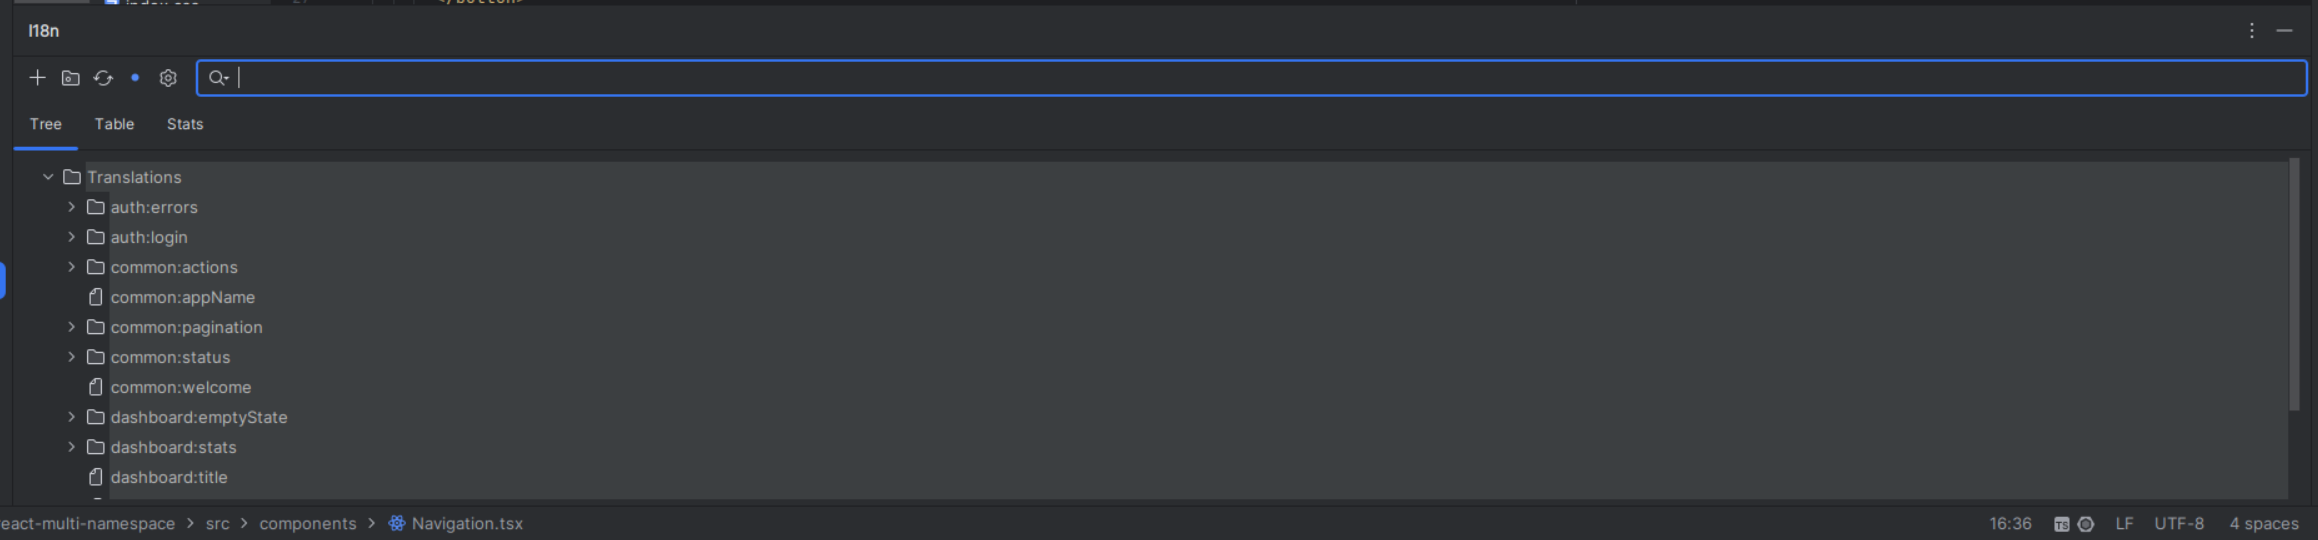
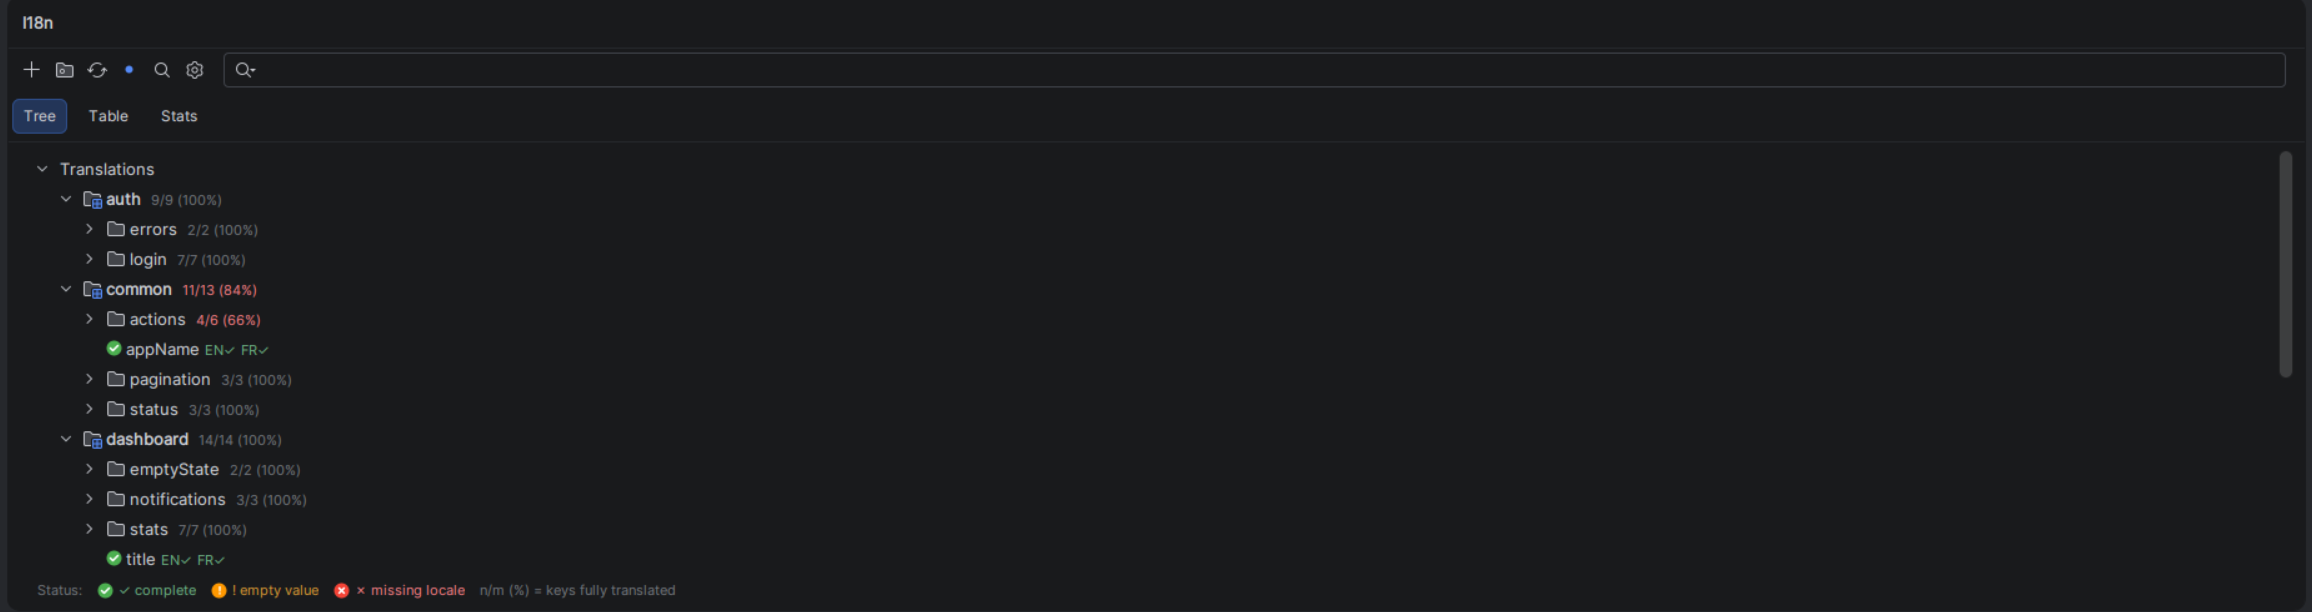
docs(readme): describe the tool window and settings as they are (#272)
* docs(readme): describe the tool window and settings as they are

The Tool Window section described the flat tree, the per-locale Stats
table and a tab layer per module that no longer exist; the Configuration
section listed the settings of the first release, without modules, rules,
the preview locale, exclusions or the per-format settings; and six actions
(CSV export/import, cleanup, batch extract, sort, move) and the five
inspections appeared nowhere. Each section now follows the code. The
screenshot checklist lists which captures the refactoring made stale,
what each must show, and the one to add (the Stats popup).

* docs(readme): retake the tool window and settings screenshots

Twelve captures taken on the example project after the tool window
refactoring (#269-#271): the tree grouped by namespace, the table with
its Namespace column and filter, the Stats matrix and its popup, the
gutter badges and their tooltip, the hover table, and the four pages of
the settings. Two stale table captures nothing referenced are removed.

* docs(readme): show the Create Translation dialog and its Add Namespace step

Two frames of the demo screencast: the dialog with a key checked as
available, the file each locale writes to, and Copy to empty locales;
and the Add Namespace sub-dialog the + button opens.

diff --git a/README.md b/README.md
@@ -25,9 +25,10 @@ whether a key exists, in which namespace, and whether it's translated everywhere
 - **Edit safely** — extract hardcoded strings (`Alt+Enter`), rename across all
   locales and code (`Shift+F6`), move a key to another namespace (`Ctrl+Alt+Shift+M`),
   sort keys alphabetically.
-- **Stay healthy** — tool window with tree/table views, per-locale coverage stats,
-  Keys Synchronizer (propagate missing keys in bulk), Scan Orphans (find unused keys),
-  and empty/duplicate-value inspections.
+- **Stay healthy** — tool window with tree/table views grouped by namespace, coverage
+  stats per namespace and locale, Keys Synchronizer (propagate missing keys in bulk),
+  Scan Orphans (find unused keys), CSV export/import, and inspections for empty,
+  duplicate or inconsistent values.
 
 Works with **i18next, vue-i18n, lingui, react-intl, ngx-translate, svelte-i18n & i18n-js**
 across JS/TS/JSX/TSX, Vue SFC and PHP, with JSON, YAML and PO/POT files.
@@ -89,7 +90,7 @@ namespace.
 
 On first launch, a wizard guides you through configuration in 3 steps:
 
-1. **Framework detection** — auto-detects i18next, vue-i18n, lingui, or react-intl in your project
+1. **Framework detection** — auto-detects i18next, vue-i18n, lingui, react-intl, ngx-translate, svelte-i18n or i18n-js from your `package.json`
 2. **Translation file discovery** — scans for `.json`, `.yaml`, `.po`, and `.pot` files in `locales/`, `i18n/`, `translations/` folders (PO/POT support requires the optional **GNU GetText** plugin — see Plugin Dependencies)
 3. **Summary** — review and apply the configuration
 
@@ -120,6 +121,7 @@ Highlights i18n keys with visual feedback on resolution status:
 
 **Ctrl+Click** on any i18n key navigates directly to the translation value in the JSON/YAML file.
 
+- Opens the **preview locale** (the folding language when none is set) rather than asking which file; when that locale lacks the key, every target is offered
 - Works with partially resolved keys (navigates to the deepest resolved node)
 - Bidirectional: navigate from translation files back to code usage
 
@@ -150,9 +152,10 @@ Line markers in the editor gutter indicate key resolution status at a glance:
 | ⚠ Yellow | Key resolved in **some** locales (partial) |
 | ❌ Red | Key not found in **any** locale |
 
-Clicking a partial/missing badge triggers the quick fix to create the missing key.
+Hovering a badge lists the locales; clicking a partial/missing badge triggers the quick fix to create the missing key.
 
 ![Gutter Icons](docs/img/gutter-icons.png)
+![Gutter Icons tooltip](docs/img/gutter-icons-tooltip.png)
 
 ### Inlay Hints
 
@@ -175,7 +178,31 @@ Replaces i18n keys with their translation values inline for better readability. 
 
 ### Rename Refactoring
 
-Rename i18n keys across all translation files and source code references with **Shift+F6**.
+Rename i18n keys across all translation files and source code references with **Shift+F6** — every call site, whether written with its namespace, under a hook namespace or under a key prefix; plural suffixes (`_one`, `_other`) are kept.
+
+### Bulk Actions
+
+| Action | Where | What it does |
+|--------|-------|--------------|
+| Batch Extract i18n Keys | **Code** menu, `Ctrl+Alt+Shift+B` | Extract several hardcoded strings of a file as keys in one pass |
+| Move i18n Key to Namespace… | editor context menu, `Ctrl+Alt+Shift+M` | Move a key to another namespace, updating every locale file and code reference |
+| Sort i18n Keys Alphabetically | editor context menu, in a translation file | Reorder the file's keys, recursively |
+| Sync Keys | **Tools > i18n Support Plus**, tool window toolbar | Create in every locale the keys it lacks, with a batch dialog to fill the values |
+| Export Translations to CSV… | **Tools > i18n Support Plus** | One row per key, one column per locale |
+| Import Translations from CSV… | **Tools > i18n Support Plus** | Write values back from a CSV, with a preview of what changes before anything is written |
+| Cleanup Unused Keys… | **Tools > i18n Support Plus** | Scan the code for keys never used and delete the selected ones from every locale |
+
+### Inspections
+
+Enabled under **Settings > Editor > Inspections > i18n Support Plus**:
+
+| Inspection | Reports |
+|------------|---------|
+| Empty translation value | A key whose value is blank in a translation file |
+| Duplicate translation value | Two keys of a file holding the same value |
+| Placeholder consistency across locales | A `{name}` or `%s` placeholder present in one locale and not in another, or an unbalanced brace |
+| ICU message format validation | Unbalanced braces, a `plural` block without `one`/`other`, … |
+| Unused translation key | A key of a translation file no code refers to |
 
 ### Wildcard Traversal
 
@@ -193,23 +220,34 @@ Intermediate `*` wildcards in composite key resolution allow matching any segmen
 
 The **I18n** tool window (bottom panel) provides a centralized view of all translations in the project.
 
+The toolbar holds the actions — add a translation, add a namespace, refresh, Sync Keys, Scan Orphans, settings —, a **search field** filtering the tree and the table by key or value (with a result count), and, when several modules are configured, a **module selector**. A project in which nothing can be read shows where the plugin looked and links to the setup wizard and the settings. The window reloads itself when a translation file changes.
+
+**Add translation** opens the same dialog as the quick fix: the key is checked as you type, one field per locale says which file it writes to, **Copy to empty locales** fills the blanks from the reference locale, and the `+` next to the namespace creates a new one on the spot.
+
+![Create Translation](docs/img/toolwindow-create-translation.png)
+![Add Namespace](docs/img/toolwindow-create-namespace.png)
+
 ### Tree View
 
-Hierarchical view of translation keys with color-coded nodes:
-- **Red** — missing keys (not present in all locales)
-- **Orange** — empty values
-- Double-click to edit a translation value
+Keys grouped by **namespace**, then by segment. Every key carries its status three times over — an icon, per-locale badges (`EN✓ FR✗`) and a colour — so it survives a colour-blind reader or a custom theme; a branch shows how many of its keys are fully translated (`12/14 (86%)`), and a namespace row how complete the namespace is.
+
+- **Enter** or double-click edits the key, **F4** opens the translation file at the key, typing jumps to a key
+- Right-click: edit, open file, copy key
+- A permanent legend sits at the bottom
 
 ![Tool Window Tree](docs/img/toolwindow-tree.png)
 
 ### Table View
 
-Flat table with columns: **Key**, one column per locale, and **Usage** count. Features:
-- Namespace filtering via dropdown
-- **Scan Orphans** — identifies unused translation keys (usage count = 0)
-- Right-click on orphan keys to delete them
+Flat table: a **Namespace** column while the rows span several namespaces, the **Key**, one column per locale, and **Usage**. Every cell says what it is — a *Missing* or *Empty* word with an icon, the value otherwise — before being tinted.
+
+- Locale cells are **editable in place**; the value is written straight to the file, and the entry created when the locale lacks it
+- Namespace filter in the dropdown; right-click the header to hide locale columns
+- **Scan Orphans** (toolbar) fills the Usage column; keys reached only through a dynamic key (`` t(`status.${kind}`) ``) are told from unused ones
+- Right-click: edit, open file, delete an unused key
 
 ![Tool Window Table](docs/img/toolwindow-table.png)
+![Tool Window namespace filter](docs/img/toolwindow-table-namespace-filter.png)
 ![Tool Window Orphans](docs/img/toolwindow-table-orphans.png)
 
 ### Keys Synchronizer
@@ -218,60 +256,100 @@ Propagates missing keys across all locales in one click. When a key exists in `e
 
 ![Sync Missing Keys](docs/img/sync-missing-keys.png)
 
-### Stats Panel
+### Stats
 
-Translation coverage statistics per locale: total keys, translated count, missing count, and completion percentage.
+Coverage as a matrix: one row per **namespace** under a **Total** row, one column per **locale**. A cell reads `11/13 [=====    ] 84.6%` — translated keys over the namespace's keys, a bar tinted by tier (≥ 90% complete, ≥ 50% partial, below incomplete), the percentage.
 
-![Stats Panel](docs/img/toolwindow-stats.png)
+Clicking a cell lists that namespace's untranslated keys in that locale — **missing** and **empty** told apart, each next to what it says in the reference locale. **Enter** or a click opens the translation dialog on the key; **F4** opens the reference file.
+
+![Stats](docs/img/toolwindow-stats.png)
+![Stats popup](docs/img/toolwindow-stats-popup.png)
 
 ### Multi-Module Support
 
-When 2+ modules are configured, the tool window displays a tab layer with one tab per module, each with its own Tree/Table/Stats panels.
+A monorepo is described as **modules** in the settings (root directory, path template, key template, framework preset). With two or more, the toolbar's module selector switches the three views from one module to the next; a code file inside a module's root directory resolves its keys against that module's translation files only.
 
 ## Configuration
 
-**File > Tools > i18n Support Plus Configuration**
+**Settings > Tools > i18n Support Plus Configuration**
 
-### General
+![Settings](docs/img/settings.png)
+
+### Namespaces and separators
 
 | Setting | Default | Description |
 |---------|---------|-------------|
-| Search in project only | `true` | Limit translation file search to the project |
 | Namespace separator | `:` | Separates namespace from key (e.g. `common:key`) |
 | Key separator | `.` | Separates nested keys (e.g. `parent.child`) |
 | Plural separator | `-` | Separates plural forms |
-| Default namespace | `translation` | Default namespace(s), separated by `;`, `,` or whitespace |
-| First component as namespace | `false` | Treat first key component as namespace (for Vue) |
-| JS configuration file | *(empty)* | Path to i18next config file for namespace discovery |
-| Translations root | *(empty)* | Custom root directory for translation files |
+| Default namespace | `translation` | Namespace(s) used for keys without a prefix, separated by `;`, `,` or whitespace |
+| First component as namespace | `false` | Treat the first key component as the namespace (vue-i18n) |
+| Treat keys as flat | `false` | Look a key up as a single property, without splitting (react-intl / FormatJS) |
+
+### Where translations are searched
+
+| Setting | Default | Description |
+|---------|---------|-------------|
+| Search in project files only | `true` | Skip libraries and external roots |
+| Translations root directory | *(empty)* | In a monorepo, path from the project root to the translations directory |
+| i18next configuration files | *(empty)* | Files declaring i18next `resources` inline, comma-separated (`src/i18n.ts`) |
+| Excluded directories | *(empty)* | Directory names skipped when scanning for translation files |
+| Excluded file extensions | *(empty)* | Extensions on which annotations are suppressed (`php,vue`) |
+
+### Modules
+
+One entry per application of a monorepo: a **name**, a **root directory**, a **path template** designating its translation files (`locales/{lang}/{ns}.json`, `messages/{lang}.yml`), an optional **file template**, a **key template** saying how its code writes keys (`{ns}:{key}`, `{ns}.{key}`, `{key}`) and a framework **preset**. A diagnostics panel underneath says what each template resolves to.
+
+![Settings — modules](docs/img/settings-modules.png)
+
+### Key assistance rules
+
+Rules make other calls behave like `t`: a **trigger** (`translate`, `i18n.translate`, `__`) turns a function into a translation call, an **exclude** rule takes one out. Each rule can be limited to a language (`js`, `php`) and constrained on the file path, the file's imports or the key — exact, prefix or regular expression, optionally negated.
+
+![Settings — key assistance rules](docs/img/settings-rules.png)
+
+### Folding and preview
+
+![Settings — folding, extraction, gettext, inspections](docs/img/settings-folding.png)
+
+| Setting | Default | Description |
+|---------|---------|-------------|
+| Enable folding | `false` | Show translation values inline in place of the keys |
+| Preferred folding language | `en` | Locale used by folding |
+| Folding max length | `20` | Max characters shown in a folded translation |
+| Preview locale | *(empty)* | Locale shown by inlay hints, first in the hover table and opened by Ctrl+click; the folding language when empty |
+
+### Key extraction
+
+| Setting | Default | Description |
+|---------|---------|-------------|
+| Extract translation sorted by key | `false` | Insert extracted keys in alphabetical order |
+| Sort keys alphabetically | `false` | Keep JSON translation files sorted after every key creation |
+
+### Inspections
+
+| Setting | Default | Description |
+|---------|---------|-------------|
+| Partially translated keys inspection | `false` | Warn when a key exists in some locales but not others |
+
+### PHP / gettext
+
+| Setting | Default | Description |
+|---------|---------|-------------|
+| PHP gettext & plain object files support | `false` | Enable gettext/PO file support |
+| gettext aliases | `gettext,_,__` | Function names recognized as gettext calls |
+
+### Translation file formats
+
+Per-format settings; the first one is the **indentation of the keys generated in YAML files** (2 spaces). JSON follows the IDE's code style.
+
+### Appearance
+
+| Setting | Default | Description |
+|---------|---------|-------------|
 | Show gutter icons | `true` | Display resolution badges in the editor gutter |
-
-### Folding
-
-| Setting | Default | Description |
-|---------|---------|-------------|
-| Folding enabled | `false` | Show translation values inline in the editor |
-| Preferred language | `en` | Language used for inline folding display |
-| Max length | `20` | Max characters shown in folded translation |
-
-### Inspection
-
-| Setting | Default | Description |
-|---------|---------|-------------|
-| Partial translation inspection | `false` | Warn when a key exists in some locales but not others |
-
-### Gettext
-
-| Setting | Default | Description |
-|---------|---------|-------------|
-| Gettext enabled | `false` | Enable gettext/PO file support |
-| Gettext aliases | `gettext,_,__` | Function names recognized as gettext calls |
-
-### Extraction
-
-| Setting | Default | Description |
-|---------|---------|-------------|
-| Extract sorted | `false` | Insert extracted keys in alphabetical order |
+| Show setup wizard on new projects | `true` | Run the wizard the first time an unconfigured project opens |
+| Announce plugin updates | `true` | After an update, a notification linking to the changelog (applies to every project) |
 
 ## Requirements
 

diff --git a/docs/SCREENSHOTS_CHECKLIST.md b/docs/SCREENSHOTS_CHECKLIST.md
@@ -3,52 +3,74 @@
 ## Setup
 
 1. Lancer `./gradlew runIde`
-2. Ouvrir un projet de test avec des fichiers de traduction (ex: `examples/react-multi-namespace/`)
-3. Outil recommande : [ScreenToGif](https://www.screentogif.com/) (screenshots + GIFs)
+2. Ouvrir `examples/react-multi-namespace/` — c'est le projet de référence : cinq namespaces
+   (`auth`, `common`, `dashboard`, `deposit-box`, `navigation`), deux locales (`en`, `fr`),
+   des clés manquantes et vides prêtes à l'emploi
+3. Thème sombre par défaut de l'IDE, fenêtre d'outil ancrée en bas, largeur ≥ 1400 px
+4. Outil recommandé : [ScreenToGif](https://www.screentogif.com/) ou la capture système ;
+   PNG, sans mise à l'échelle, rognée à la zone utile
 
 ---
 
-## Screenshots (`docs/img/`)
+## Captures de la fenêtre d'outil et des réglages — refaites le 2026-09-14
 
-### 2. Annotation — cle resolue
-- **Fichier** : `annotation-resolved.png`
-- **Comment** : Ouvrir un fichier JS/TS avec `t('common:existingKey')`
-- **Contenu** : La cle sans erreur, eventuellement avec l'inlay hint a cote
-- **Statut** : DONE (source : `Screenshot from 2026-03-29 12-44-21.png`)
+Sources : `~/Pictures/Screenshots/Screenshot from 2026-09-14 14-4*.png`, rognées avec ImageMagick
+(`convert -crop`), sans mise à l'échelle.
 
+| Fichier | Contenu | Statut |
+|---|---|---|
+| `toolwindow-tree.png` | groupes de namespace dépliés (`auth`, `common`, `dashboard`), badges `EN✓ FR✓`, légende | DONE |
+| `toolwindow-table.png` | colonne Namespace, clés sans préfixe, deux cellules *Missing* | DONE |
+| `toolwindow-table-namespace-filter.png` | combo *All namespaces* déroulée | DONE |
+| `toolwindow-stats.png` | matrice Namespace × locale, ligne Total, barres vertes/orange | DONE |
+| `toolwindow-stats-popup.png` | popup `common — 'fr': 2 missing, 0 empty — reference: en` sous la cellule | DONE |
+| `gutter-icons.png` | `DepositBox.tsx` avec badges vert / orange / rouge | DONE (refaite) |
+| `gutter-icons-tooltip.png` | tooltip *Partial translation (1/2 locales)* | DONE (refaite) |
+| `hover-hint.png` | table de survol `en` / `fr` avec liens ↗ et crayon | DONE (refaite) |
+| `settings.png` | *Namespaces and separators*, *Where translations are searched* | DONE |
+| `settings-folding.png` | *Folding and preview*, *Key extraction*, *PHP / gettext*, *Inspections* | DONE (nouvelle) |
+| `settings-modules.png` | *Appearance*, *Translation file formats*, *Modules configuration* | DONE (nouvelle) |
+| `settings-rules.png` | *Key assistance rules* | DONE (nouvelle) |
+| `toolwindow-create-translation.png` | dialogue *Create Translation* rempli (clé vérifiée, chemins, *Copy to empty locales*) — frame de `Screencast from 2026-09-14 14-45-40.mp4` à 26 s | DONE (nouvelle) |
+| `toolwindow-create-namespace.png` | sous-dialogue *Add Namespace* ouvert par le `+` — même vidéo à 12 s | DONE (nouvelle) |
 
-### 4. Annotation — fichier manquant
-- **Fichier** : `annotation-missing-file.png`
-- **Comment** : Ecrire `t('unknownNamespace:key')`
-- **Contenu** : Le namespace souligne, indiquant que le fichier n'existe pas
-- **Statut** : DONE (source : `Screenshot from 2026-03-29 12-43-08.png`)
+### Reste à refaire
 
+#### Tool Window — Orphans
+- **Fichier** : `toolwindow-table-orphans.png`
+- **Comment** : onglet **Table**, après **Scan Orphans** (toolbar), clic droit sur une ligne *Unused*
+- **Contenu** : la colonne Usage remplie, le menu contextuel ouvert avec *Delete unused key*
+- **Périmé car** : capture d'avril, sans colonne Namespace ni états *Dynamic*
 
-## Recapitulatif
+### À vérifier
+- `navigation.png` : ne doit plus montrer de popup *Choose Declaration* (depuis #268 le Ctrl+clic
+  ouvre directement la locale de prévisualisation)
+- `sync-missing-keys.png` : refaire seulement si le dialogue a changé d'aspect
 
-| # | Feature | Statut | Fichier(s) |
-|---|---------|--------|------------|
-| 1 | Setup Wizard | DONE | `Setup-wizard-step-{1,2,3}.png` |
-| 2 | Annotation — cle resolue | DONE | `annotation-resolved.png` |
-| 3 | Annotation — segment non resolu | DONE | `annotation-unresolved.png` |
-| 4 | Annotation — fichier manquant | DONE | `annotation-missing-file.png` |
-| 5 | Navigation | DONE | `navigation.png` |
-| 6 | Completion | DONE | `completion.png` |
-| 7 | Extraction | DONE | `extraction.png`, `extraction-intent.png`, `extraction-add-namespace.png`, `extraction-translation-value.png` |
-| 8 | Gutter Icons | DONE | `gutter-icons.png` |
-| 9 | Inlay Hints | DONE | `inlay-hints.png` |
-| 10 | Code Folding | DONE | `folding-before.png`, `folding-after.png` |
-| 11 | Tool Window — Tree | DONE | `toolwindow-tree.png` |
-| 12 | Tool Window — Table | DONE | `toolwindow-table*.png` (4 fichiers) |
-| 13 | Tool Window — Stats | DONE | `toolwindow-stats.png` |
-| 14 | Settings | DONE | `settings.png` |
-| 15 | Sync Missing Keys | DONE | `sync-missing-keys.png` |
-| 16 | Hover Hint | DONE | `hover-hint.png` |
-| 17 | Orphan Scan | DONE | `toolwindow-table-orphans.png` |
+---
 
-**Progression : 17/17 (100%) ✓**
+## Inchangées — à garder
 
-### Captures supplementaires disponibles (non listees)
-- `gutter-icons-tooltip.png` — Tooltip gutter "All locales resolved (4/4)"
-- `annotation-partial.png` — Code JSX avec icones gutter orange (partial translation)
-- `annotation-quickfix.png` — Quick fix popup "Create i18n key" sur cle non resolue
+| # | Feature | Fichier(s) |
+|---|---------|------------|
+| 1 | Setup Wizard | `Setup-wizard-step-{1,2,3}.png` |
+| 2 | Annotation — clé résolue | `annotation-resolved.png` |
+| 3 | Annotation — segment non résolu | `annotation-unresolved.png` |
+| 4 | Annotation — fichier manquant | `annotation-missing-file.png` |
+| 6 | Completion | `completion.png` |
+| 7 | Extraction | `extraction.png`, `extraction-intent.png`, `extraction-add-namespace.png`, `extraction-translation-value.png` |
+| 10 | Code Folding | `folding-before.png`, `folding-after.png` |
+| 9 | Inlay Hints | `inlay-hints.png` |
+
+### Captures supplémentaires disponibles (non référencées par le README)
+- `annotation-partial.png` — Code JSX avec icônes gutter orange (partial translation)
+- `annotation-quickfix.png` — Quick fix popup "Create i18n key" sur clé non résolue
+
+## Récapitulatif
+
+| Statut | Nombre |
+|--------|--------|
+| Refaites le 2026-09-14 | 14 |
+| À refaire | 1 (`toolwindow-table-orphans`) |
+| À vérifier | 2 (`sync-missing-keys`, `navigation`) |
+| Inchangées | 15 |
